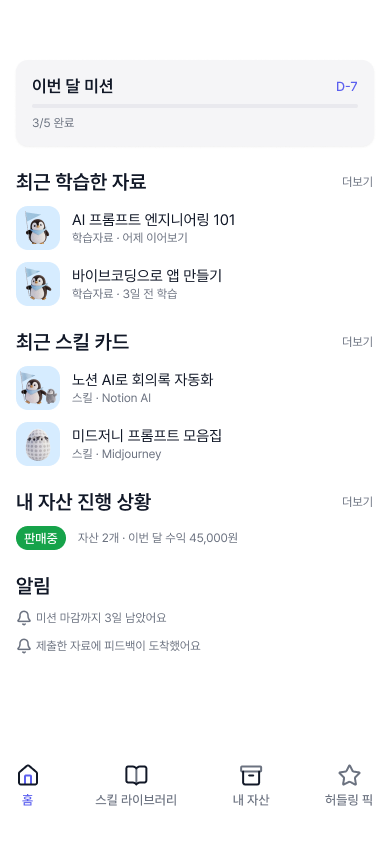
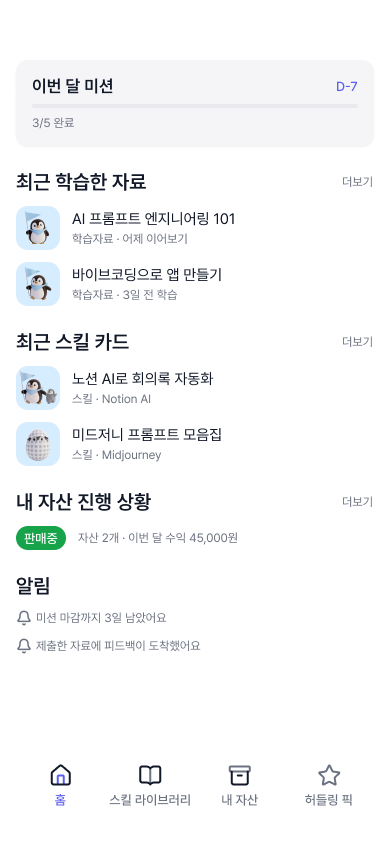
feat(design): 게이트 4 통과 — STAGE=fix Round 1·2 + audit PASS (15/15)
- design-rules v1.1: Tab Height fixed(size-button-sm) → fixed(size-tap-min). 탭 타겟 최소 44 규칙과의 충돌 해소
- Round 1: 홈·스킬 라이브러리·허들링 픽 primary 카드 인스턴스 이름 표기, ItemRow/SkillCard itemSpacing semantic 바인딩,
  TabBar TabItem FILL, Tab 높이 44
- Round 2: Tab minWidth=size-tap-min 바인딩, Underline FILL (탭 영역 16건 해소)
- snapshot-runner 재추출 3페이지 PASS, design-auditor audit 9/9 PASS, audit-report.md 작성
- fix-list.md (Round 1·2 이력), 스크린샷 5장 갱신, build-log 갱신

diff --git a/design/04-screens/build-log.md b/design/04-screens/build-log.md
@@ -4,7 +4,7 @@
 
 - figma_file: 9mSXSf3cI36nDWiyolGXja
 - figma_file_url: https://www.figma.com/design/9mSXSf3cI36nDWiyolGXja/
-- design_rules_version: 1.0
+- design_rules_version: 1.1
 - start_date: 2026-09-18
 - design_rules_confirmed_at: 2026-09-18
 
@@ -405,7 +405,170 @@ character-asset-2.png 는 01-home/05-huddling-pick 두 곳에서 재사용되어
   next: audit 대기 (세 페이지 스냅샷 PASS 후 design-auditor)
 
 ### snapshot · 03 Screens ❌
+
 - profile: full · 배치 17개 · 노드 355개 (프레임 5개: 01 Home 82 · 02 Skill Library 86 · 03 Mission Detail 48 · 04 My Assets 64 · 05 Huddling Pick 75)
 - check-snapshot: FAIL (25/26) — "화면당 isPrimary 1개" 위반: DeviceFrame · 01 Home(0개), DeviceFrame · 02 Skill Library(0개), DeviceFrame · 05 Huddling Pick(0개). 나머지 25개 항목 전부 PASS (schema_version/file_key/frames 5개/노드 355개/isTapTarget 52개/isInstance 83개/변수 2계층 검증 등)
 - check-layout (03 Screens): PASS — 고정 높이 0건 · 오토레이아웃 없는 컨테이너 0건 · 콘텐츠 넘침 0건
 - 재추출 불필요: 스냅샷 추출 자체는 완결(잘림 없음, 구멍/중복 없음). isPrimary FAIL 은 Figma 노드 이름/variant 속성에 "primary"가 없는 것이 원인 — figma-builder 가 해당 화면들의 주요 CTA 요소 이름 또는 컴포넌트 variant 를 수정해야 한다.
+
+## STAGE=fix · Round 1 ✅
+
+완료: 2026-09-19 (design-rules.md v1.1 반영 · design_rules_version 도 1.1 로 갱신)
+입력: design/04-screens/fix-list.md (Round 1 · 코디네이터 작성 · 대상 전부 `figma`)
+
+### Critical (03 Screens · isPrimary 보정)
+
+| #   | 화면             | 노드                        | 조치                                                                 |
+| --- | ---------------- | --------------------------- | -------------------------------------------------------------------- |
+| 1   | 01 Home          | `71:84` Card 인스턴스       | 이름 `Card` → `Card · primary`                                       |
+| 2   | 02 Skill Library | `74:117` SkillCard 인스턴스 | 이름 `SkillCard` → `SkillCard · primary` (74:127 · 74:137 은 그대로) |
+| 3   | 05 Huddling Pick | `79:264` PickCard 인스턴스  | 이름 `PickCard` → `PickCard · primary` (79:272 는 그대로)            |
+
+수정 전 각 화면을 스캔해 기존 "primary" 명명 충돌이 없음을 확인(0건)한 뒤 진행. 화면당 정확히 1개.
+
+### Major (02 Components 마스터 수정 → 03 Screens 인스턴스에 자동 전파)
+
+| #   | 노드                                                                  | 바인딩/속성                                                                | 값                                  |
+| --- | --------------------------------------------------------------------- | -------------------------------------------------------------------------- | ----------------------------------- |
+| 4   | ItemRow 마스터 `TextCol` (`36:122`)                                   | itemSpacing → semantic `space-inline` (primitive `space-1` 별칭, 4px)      | 2px → 4px                           |
+| 5   | SkillCard 마스터 `TagsRow` (`37:26`)                                  | itemSpacing → semantic `space-tap-gap-min` (primitive `space-2` 별칭, 8px) | 6px → 8px                           |
+| 6   | TabBar 마스터 `TabItem` ×4 (`37:49`·`37:51`·`37:53`·`37:55`)          | `layoutSizingHorizontal` → `FILL` (부모 TabBar 390px 균등분할)             | 폭 24~49px(HUG) → 89.5px 균등 4등분 |
+| 7   | Tab 컴포넌트 세트 `State=active`(`37:17`) · `State=inactive`(`37:20`) | `setBoundVariable("height", …)` → semantic `size-tap-min`(44px)            | 높이 36 → 44                        |
+
+**전체 페이지 스캔 결과:** `TextCol` 이름의 노드는 ItemRow 마스터의 `36:122` 1개뿐 — Card/AssetCard 등
+다른 마스터에 동일 이름·2px 사례 없음(추가 처리 불필요).
+
+**부수 수정 (lint 1차에서 발견, fix-list 밖 사이드이펙트 아님 — #7 의 직접 결과):**
+Tab 컴포넌트 세트 컨테이너(`37:23`, layoutMode NONE)의 바운딩 박스가 이전 높이(36)에 고정돼 있어
+variant 높이를 44로 올린 뒤 `content-overflow` 2건(active/inactive 각 8px 아래로 넘침) 발생 →
+`tabSet.resize(24, 44)`로 컨테이너 높이만 맞춤(오토레이아웃 아님, HUG 규칙과 무관).
+
+**주의:** fix-list #4/#5 원문의 "semantic `space-1`/`space-2`" 표기는 실제로는 primitive 이름이었다
+(semantic 컬렉션에 `space-1`/`space-2`라는 변수는 없음 — 이는 이전 STAGE=components 기록에 남겨진
+"components.md 표기를 시맨틱 이름으로 오인"과 같은 종류의 함정). 값(4px/8px) 기준으로 실제 semantic
+별칭인 `space-inline`(→space-1)·`space-tap-gap-min`(→space-2)을 찾아 바인딩했다. Figma 수정 전
+`figma.variables.getLocalVariablesAsync()`로 alias 대상을 직접 조회해 확인(가정 없음).
+
+### figma-lint 결과
+
+- `__PAGE_NAME__="02 Components"`, `__FIXED_ALLOW__="Button,ProgressBar,SearchBar,Tab,TabBar,AppBar,BottomCTA,LoadingSpinner,DeviceFrame,Icon"`
+  - 1차: 2건 (content-overflow: Tab State=active/inactive, #7의 side effect)
+  - Tab 세트 컨테이너 resize 후 2차: **0건, passed: true** (32 프레임 · 418 노드)
+- `__PAGE_NAME__="03 Screens"`, 동일 `__FIXED_ALLOW__`
+  - **0건, passed: true** (5 프레임 · 360 노드) — Critical 이름 변경은 lint 대상 밖(이름만 변경, 구조/바인딩 불변)이라 애초에 위반 없음
+
+### 스크린샷 갱신
+
+5장 전부 재추출 후 기존 파일명 그대로 덮어씀 (390×844 PNG, get_screenshot → curl 다운로드):
+`design/04-screens/screenshots/01-home.png` · `02-skill-library.png` · `03-mission-detail.png` ·
+`04-my-assets.png` · `05-huddling-pick.png`
+
+### 스냅샷
+
+snapshot: requested (page=02 Components · profile=full · stage=fix)
+snapshot: requested (page=03 Screens · profile=full · stage=fix)
+
+멈춰서 질문으로 남긴 것: 없음. fix-list 밖 항목은 건드리지 않음(예: `04-my-assets`의
+BottomCTA/TabBar 설계 판단, `ItemRow` `Thumb`→`Img/` 개명 보류 건 — 둘 다 이전 라운드에서 이미
+질문/보류로 기록됨, 이번 라운드 범위 아님).
+
+figma_read_calls: 약 14회 (whoami 1 · get_metadata 1(부분 실패, use_figma 로 재확인) · use_figma 8(조사 4 + 수정 2 + lint 2) · get_screenshot 5)
+next: snapshot-runner 가 02 Components · 03 Screens 두 페이지 모두 PASS 확인 후 design-auditor 재실행
+
+### snapshot · 02 Components (fix r1) ✅
+
+- profile: full · 배치 10개 (신규 6 + 기존 재사용 4 — 변경 없는 프레임은 이전 STAGE 배치를 그대로 씀) · 프레임 32/32 · 노드 338개
+- 신규 추출: 프레임 0(Button, 재확인용) · 1~4(Card/ItemRow/Badge) · 4~8(ProgressBar/SearchBar/Tab/SkillCard) · 8~13(AssetCard/PickCard/TabBar/AppBar/Modal)
+- 재사용(기존 STAGE=components 배치, fix-list 대상 아님): 13~19 · 19~24 · 24~28 · 28~32
+- check-snapshot --stage components: PASS (18/18)
+- check-layout --page "02 Components": PASS (고정 높이 0건 · 오토레이아웃 누락 0건 · 콘텐츠 넘침 0건, 노드 338개)
+- 수정 확인: Tab State=active/inactive height=44 vSizing=FIXED · TabItem ×4 layoutSizingHorizontal=FILL & isTapTarget=true · ItemRow/TextCol itemSpacing=4 · SkillCard/TagsRow itemSpacing=8
+- 재추출 필요 없음
+
+### snapshot · 03 Screens (fix r1) ✅
+
+- profile: full · 배치 12개 (프레임 5개 × 각 2~3개 노드 청크) · 프레임 5/5 · 노드 355개
+- 배치 상세: f00(01 Home) 3개(0-20·20-40·40-82) · f01(02 Skill Library) 3개(0-40·40-63·63-86) ·
+  f02(03 Mission Detail) 2개(0-40·40-48) · f03(04 My Assets) 2개(0-40·40-64) ·
+  f04(05 Huddling Pick) 2개(0-40·40-75)
+- 파일: design/04-screens/snapshot-batches/screens-fix1-f0N-b0N.json (이전 라운드 screens-f0N-b0N.json 은 재사용하지 않고 전부 새로 뽑음)
+- merge-snapshot.mjs: 5개 프레임 전부 노드 청크 재조합 성공, 구멍·중복 없음
+- check-snapshot --stage screens: PASS (26/26) — "화면당 isPrimary 1개: 모든 화면 1개" 항목 포함
+- check-layout --page "03 Screens": PASS (고정 높이 0건 · 오토레이아웃 누락 0건 · 콘텐츠 넘침 0건, 노드 355개)
+- isPrimary 개별 확인:
+  - 01 Home: `Card · primary` (71:84) — 1개
+  - 02 Skill Library: `SkillCard · primary` (74:117) — 1개
+  - 05 Huddling Pick: `PickCard · primary` (79:264) — 1개
+  - (참고: 03 Mission Detail 의 BottomCTA Button, 04 My Assets 의 Button 도 variant=primary 로 isPrimary=true 이나 이번 라운드 확인 대상 밖)
+- 재추출 필요 없음
+
+## STAGE=fix · Round 2 ✅
+
+완료: 2026-09-19
+입력: design/04-screens/fix-list.md `Fix List · Round 2` (항목 #8 · 대상 전부 `figma`)
+
+### 조사: 12px semantic 변수 존재 여부
+
+design-rules.md §B semantic 표(space-screen-padding/section/card-padding/list-gap/inline/tap-gap-min)를
+전수 확인한 결과 **"패딩" 의도로 12px(={space-3})를 가리키는 semantic 변수는 없다.**
+`space-list-gap` 이 {space-3}(12px) 를 참조하긴 하나 용도가 "리스트 아이템 간" 간격이라 Tab 좌우
+padding 에 의미적으로 맞지 않는다 — 값이 같다고 다른 의도의 변수를 끌어쓰지 않았다.
+따라서 fix-list #8 처리 규칙 1의 **대안 경로**(minWidth = size-tap-min + 텍스트 중앙 정렬)를 택했다.
+
+### 적용 내용 (Tab 컴포넌트 세트, `02 Components`)
+
+| 노드                        | 변경                                                                                                             |
+| --------------------------- | ---------------------------------------------------------------------------------------------------------------- |
+| `State=active` (37:17)      | `setBoundVariable("minWidth", size-tap-min)` (semantic, ={size-44}) · 라벨(37:18) `textAlignHorizontal = CENTER` |
+| `State=inactive` (37:20)    | 동일 (라벨 37:21)                                                                                                |
+| `Underline` (37:19 · 37:22) | `layoutSizingHorizontal = "FILL"` — minWidth 로 확보된 부모 폭을 따라 늘어남                                     |
+| 세트 컨테이너 `Tab` (37:23) | `resize(44, 44)` — 두 variant 모두 44×44 로 커진 것에 맞춤 (기존 24×44)                                          |
+
+primitive 직접 바인딩 없음. 화면 인스턴스(02 Skill Library / 04 My Assets / 05 Huddling Pick) 개별
+override 없음 — 마스터만 수정, 인스턴스는 자동 전파.
+
+**결과 크기:** 두 variant 모두 최소 44×44 (라벨 "전체" 기준 HUG 폭이 minWidth 44 보다 작아 44로 고정,
+더 긴 라벨은 44보다 커질 수 있음 — 여전히 size-tap-min 이상이므로 탭 영역 위반 없음).
+
+### figma-lint 결과
+
+- `__PAGE_NAME__="02 Components"`, `__FIXED_ALLOW__="Button,ProgressBar,SearchBar,Tab,TabBar,AppBar,BottomCTA,LoadingSpinner,DeviceFrame,Icon"` → **0건, passed: true** (32 프레임 · 418 노드)
+- `__PAGE_NAME__="03 Screens"`, 동일 `__FIXED_ALLOW__` → **0건, passed: true** (5 프레임 · 360 노드)
+
+### 스크린샷 갱신
+
+Tab 이 있는 3개 화면 재추출 후 기존 파일명 덮어씀:
+`design/04-screens/screenshots/02-skill-library.png` · `04-my-assets.png` · `05-huddling-pick.png`
+(01-home, 03-mission-detail 은 Tab 미사용 — 변경 없음, 재추출 안 함)
+
+### 스냅샷
+
+snapshot: requested (page=02 Components · profile=full · stage=fix)
+snapshot: requested (page=03 Screens · profile=full · stage=fix)
+
+멈춰서 질문으로 남긴 것: 없음.
+
+figma_read_calls: 약 9회 (whoami 1 · get_metadata 1 · use_figma 5(조사 2 + 수정 1 + lint 2) · get_screenshot 3)
+next: snapshot-runner 두 페이지 PASS 후 design-auditor
+
+### snapshot · 02 Components (fix r2) ✅
+
+- profile: full · 배치 12개 (신규 3 + fix1 재사용 2 + STAGE=components 재사용 5 — 프레임 4~7 만 재추출) · 프레임 32/32 · 노드 338개
+- 신규 추출: 프레임 4~6(ProgressBar/SearchBar) · 프레임 6~7(Tab, 변경 대상) · 프레임 7~8(SkillCard) — 기존 fix1 배치(f04-b01, 4~8 범위)는 Tab 변경으로 폐기, 겹치는 원본 STAGE=components 배치(f01/f04/f08-b01)도 함께 제거해 구멍·중복 없이 재구성
+- 재사용: 프레임 0(Button, 노드 3청크) · 프레임 1~4(Card/ItemRow/Badge, fix1) · 프레임 8~13(AssetCard/PickCard/TabBar/AppBar/Modal, fix1) · 프레임 13~32(Icon 세트 등, STAGE=components 원본)
+- merge-snapshot.mjs: 32/32 프레임, 구멍·중복 없음
+- check-snapshot --stage components: PASS (18/18 · 변수 primitives 38 / semantic 39 전부 alias)
+- check-layout --page "02 Components": PASS (고정 높이 0건 · 오토레이아웃 누락 0건 · 콘텐츠 넘침 0건, 노드 338개)
+- Tab 수정 확인 (스냅샷 값 기준): 컨테이너 `Tab`(37:23) 44×44 · `State=active`(37:17)/`State=inactive`(37:20) 둘 다 size 44×44, vSizing=FIXED(design-rules 고정 높이 선언 대상이라 정상) · `Underline`(37:19/37:22) layoutSizingHorizontal=FILL. minWidth 바인딩 자체는 스키마에 별도 필드가 없어 size=44(=size-tap-min)로 간접 확인.
+- 재추출 필요 없음
+
+### snapshot · 03 Screens (fix r2) ✅
+
+- profile: full · 배치 12개 (fix1 f00×3 + fix2 f01×3 + fix1 f02×2 + fix2 f03×2 + fix2 f04×2) · 노드 355개
+- 재추출 대상: 프레임 1 `02 Skill Library`(86 nodes) · 프레임 3 `04 My Assets`(64 nodes) · 프레임 4 `05 Huddling Pick`(75 nodes). 프레임 0 `01 Home`/2 `03 Mission Detail` 은 Round 1 배치 재사용, 겹치는 Round 1 f01/f03/f04 배치는 삭제
+- Tab 인스턴스 폭 확인 (마스터 minWidth 44 전파):
+  - 02 Skill Library: 8개, 폭 44/44/57/57/44/44/44/44 — 전부 ≥44
+  - 04 My Assets: 5개, 폭 44/44/45/57/44 — 전부 ≥44
+  - 05 Huddling Pick: 7개, 전부 44 — 전부 ≥44
+- check-snapshot --stage screens: PASS (26/26)
+- check-layout --page "03 Screens": PASS (고정 높이 0건 · 오토레이아웃 누락 0건 · 콘텐츠 넘침 0건)

diff --git a/design/04-screens/audit-report.md b/design/04-screens/audit-report.md
@@ -1,0 +1,105 @@
+# Audit Report
+
+**검사일:** 2026-09-19
+**Round:** 1 (공식 audit 기준 — STAGE=fix Round 1·2 는 이 audit 이전 사전 보정 라운드였음)
+**대상:** 5개 화면 (01-home, 02-skill-library, 03-mission-detail, 04-my-assets, 05-huddling-pick)
+
+---
+
+## 최종 판정: PASS ✅
+
+---
+
+## A단계 · 사전 검사 (입력이 쓸 만한가)
+
+| 스크립트           | 결과 | 비고                                                                                             |
+| ------------------ | ---- | ------------------------------------------------------------------------------------------------ |
+| check-snapshot.mjs | ✅   | 26/26 통과 · schema_version 4 · 03 Screens 5프레임/355노드, 잘림 없음, isPrimary 화면당 1개 포함 |
+| check-assets.mjs   | ✅   | 8/8 통과 · §I 표 10슬롯 전부 `design/assets/characters/` 파일 존재 확인                          |
+
+두 스크립트 모두 통과 — audit 입력을 신뢰할 수 있음.
+
+## B단계 · 구조 검증 (스크립트 · `figma-audit.mjs`)
+
+| 항목              | 결과 | 위반                                                 |
+| ----------------- | ---- | ---------------------------------------------------- |
+| 팔레트 일관성     | ✅   | 0건                                                  |
+| 타이포 재사용     | ✅   | 0건                                                  |
+| spacing 그리드    | ✅   | 0건                                                  |
+| 탭 영역           | ✅   | 0건                                                  |
+| 세이프 에어리어   | ✅   | 0건 (167개 콘텐츠 노드 검사)                         |
+| primary 개수      | ✅   | 0건 (화면당 정확히 1개)                              |
+| 컴포넌트 재사용률 | ✅   | 100% (기준 90%, 인스턴스 63 / 손제작 프레임 0)       |
+| 토큰 계층         | ✅   | 0건 (212개 바인딩 전부 semantic, primitive 직결 0건) |
+| 레이아웃 거동     | ✅   | 0건 (고정 높이·넘침 없음)                            |
+
+**요약:** 9/9 PASS, 총 위반 0건.
+**상세:** `design/04-screens/audit-structural.json`
+
+## C단계 · 시각적 검증 (LLM)
+
+### 01-home
+
+- 전체 균형: OK — "이번 달 미션" 카드 → 섹션(자료/스킬/자산/알림) 순으로 위계가 명확.
+- 이미지: OK — 4개 썸네일(펭귄 캐릭터 이미지) 전부 채워짐, 회색 빈 박스 없음, §I 표 파일과 일치, 톤 일관.
+- 규칙 준수: OK — 색상·타이포·아이콘 크기 통일. 하단 탭바 아이콘/라벨 정렬 균등.
+- 사용성: OK — primary(미션 카드)가 유일한 카드형 컴포넌트로 시각적으로 구분됨. 잘림·어색한 빈 공간 없음.
+
+### 02-skill-library
+
+- 전체 균형: OK — 검색바 → 카테고리 탭 → 난이도 탭 → 카드 리스트 순 위계 명확.
+- 이미지: 해당 없음 (§I 표에 슬롯 없음, 확인됨).
+- 규칙 준수: OK — 3개 SkillCard 스타일 일관, 무료/유료·난이도 Badge 색상 규칙대로.
+- 사용성: ⚠ 개선 여지 — 구조상 첫 카드가 `isPrimary`(primary count 검사 대상)로 지정돼 있으나, 시각적으로 나머지 두 카드와 완전히 동일한 스타일이라 육안으로는 "이게 primary"라는 구분이 없음. 다만 design-rules 의 SkillCard 정의에 primary 강조 스타일이 없어 규칙 위반은 아님 — 화면 구조 확인용 플래그와 시각적 강조가 별개 개념으로 쓰인 것으로 판단.
+- 탭 영역(size-tap-min 44 반영): 시각적으로 탭이 과도하게 두꺼워 보이지 않음, 어색함 없음.
+
+### 03-mission-detail
+
+- 전체 균형: OK — AppBar(뒤로가기+제목) → 본문 → 관련 스킬 → 제출 상태 → 피드백 → BottomCTA 순서 자연스러움.
+- 이미지: 해당 없음 (§I 표에 슬롯 없음). ItemRow 썸네일은 의도대로 중립색(color-surface-2) 채움 — 빈 이미지 슬롯 아님, 정상.
+- 규칙 준수: OK — Badge(피드백 대기, warning) 색상 정확, BottomCTA 보라색 풀폭으로 규칙대로.
+- 사용성: OK — primary 액션(제출하기)이 화면 하단에 고정되어 매우 눈에 띔. 콘텐츠 잘림 없음.
+
+### 04-my-assets
+
+- 전체 균형: OK — 상태 필터 탭 → 등록 버튼 → 자산 카드 → 수익 요약 순.
+- 이미지: OK — AssetCard 2개(펭귄 캐릭터 사진) 채워짐, 회색 박스 없음, 상태 Badge(판매중/멤버공개) 대비 양호.
+- 규칙 준수: OK — 색상·radius·타이포 일관.
+- 사용성: ⚠ 개선 여지 — "판매 수익 요약" 섹션 아래로 탭바까지 빈 공간이 상당히 넓어 보임(콘텐츠가 3개뿐이라 발생). 결함은 아니나 콘텐츠가 늘어나기 전까지는 다소 허전한 인상. build-log 에 이미 기록된 BottomCTA 대신 인라인 Button 배치 결정과 별개의 관찰.
+
+### 05-huddling-pick
+
+- 전체 균형: OK — 검색바 → 카테고리 탭 → 정렬 탭 → 픽 카드 순.
+- 이미지: OK — PickCard 2개 세로형(펭귄 캐릭터 사진) + ItemRow 1개 전부 채워짐, 텍스트(가격·제목)는 이미지 밖에 배치되어 대비 문제 없음, 잘림 없음.
+- 규칙 준수: OK — 가격(label bold), 카테고리 Pill, 제작자 caption 스타일 규칙대로.
+- 사용성: ⚠ 개선 여지 — 04-my-assets 와 동일하게 리스트 아래 빈 공간이 넓어 보임(콘텐츠 3개 기준). 반복되는 패턴이라 다음 라운드에서 카드 개수를 늘리거나 EmptyState/추가 섹션으로 채우는 것을 고려할 만함.
+
+---
+
+## 진단
+
+**원인 분류:**
+
+- [x] PASS — 결함 없음 (진단 분류 대상 아님)
+- [ ] 국소 결함
+- [ ] 방향 오류
+- [ ] 반복 실패
+
+**주요 발견:**
+
+- 구조 검증 9/9, 사전 검사 2/2 모두 통과. 시각 검증에서 발견한 것은 전부 ⚠ 개선 여지 수준(빈 공간, primary 카드의 시각적 무강조)이며 design-rules 위반은 아니다.
+- STAGE=fix Round 1·2 에서 처리한 isPrimary 명명, Tab 탭 영역(44px), spacing semantic 바인딩 수정이 이번 audit 에서 전부 유효하게 반영된 것을 스냅샷·스크린샷 양쪽에서 확인.
+
+## 알려진 보류 사항 (결함 아님, 후속 라운드 후보)
+
+1. **ItemRow 마스터 썸네일 레이어명** — `02 Components` 의 ItemRow 마스터 썸네일이 `Thumb` 으로 명명되어 있고 `Img/` 접두사가 아님. 03-mission-detail 은 §I 표에 이미지 슬롯이 없어 이 화면에서는 문제되지 않음(node_id 기반 주입이라 동작 자체는 정상). 다음 컴포넌트 보완 라운드에서 `Img/item-thumb` 로 개명 권장.
+2. **04-my-assets 하단 구성** — BottomCTA 대신 인라인 Button + TabBar 로 사용자 확정. 규칙 위반 아님, 재확인 완료.
+3. **보조 상태 프레임 미생성** — loading/empty/submitting/error 등은 시간 예산상 생성하지 않음(5개 화면 모두 default 만). screens.md 요구사항이지만 이번 게이트 4 시연 범위에서 fail 사유로 처리하지 않음 — 필요 시 별도 라운드로 진행.
+4. (신규 관찰) **04/05 화면 하단 여백** — 콘텐츠 수가 적어 탭바 위 빈 공간이 넓음. 결함은 아니지만 콘텐츠 확장 또는 섹션 추가 시 개선 여지.
+5. (신규 관찰) **02-skill-library primary 카드 시각적 무강조** — 구조적으로는 정확히 1개 primary 이나, SkillCard 컴포넌트 정의 자체에 강조 variant가 없어 육안 구분 불가. design-rules 위반은 아님(규칙에 강조 요구 없음).
+
+## 다음 조치
+
+PASS 이므로:
+→ 🎉 게이트 4 통과. 위 5개 보류/관찰 사항은 결함이 아니라 다음 라운드(있다면) 참고용으로만 남김.
+→ fix-list.md 는 이번 라운드에서 신규 항목을 추가하지 않음(기존 Round 1·2 이력은 그대로 보존).

diff --git a/design/04-screens/fix-list.md b/design/04-screens/fix-list.md
@@ -1,0 +1,61 @@
+# Fix List · Round 1
+
+- 작성: 코디네이터 (2026-09-19)
+- 근거: snapshot-runner 의 `check-snapshot` FAIL (화면당 isPrimary 1개) + 코디네이터가 현재 스냅샷으로 사전 실행한
+  `npm run audit` 결과 (spacing 11건 · 탭 영역 33건). design-auditor 는 세 페이지 스냅샷 PASS 후 실행한다.
+- design-rules.md 는 **v1.1** (2026-09-19 · Tab Height → fixed(size-tap-min)). build-log 의 design_rules_version 도 1.1 로 갱신할 것.
+- 재사용률 항목은 계산식 수정으로 100% PASS — Figma 수정 불필요.
+
+**대상 열:** `figma` = STAGE=fix 로 Figma 수정 / `rules` = design-rules §I 표 교체 (design-rules-generator). 이번 라운드는 전부 `figma`.
+
+**주의:** figma-builder STAGE=fix 는 이 목록에 있는 것만 고친다. 페이지 `02 Components` 마스터를 고치면 `03 Screens` 인스턴스에 전파된다 — 화면 인스턴스에서 개별 override 로 고치지 않는다.
+
+## Critical (check-snapshot FAIL · 게이트 4 진입 조건)
+
+| #   | 화면             | 대상  | 노드                                  | 문제                                                                       | 수정 방법                                                                              |
+| --- | ---------------- | ----- | ------------------------------------- | -------------------------------------------------------------------------- | -------------------------------------------------------------------------------------- |
+| 1   | 01 Home          | figma | `Card` 인스턴스 (id 71:84, main=Card) | primary 액션(이번 달 미션 카드 탭)인데 이름에 primary 없음 → isPrimary 0개 | 레이어 이름을 `Card · primary` 로 변경 (이 화면에서 이 노드 하나만)                    |
+| 2   | 02 Skill Library | figma | `SkillCard` 인스턴스 (id 74:117)      | primary 액션(스킬 카드 탭) 미표기 → isPrimary 0개                          | 첫 카드만 `SkillCard · primary` 로 변경. 74:127 · 74:137 은 그대로 (화면당 정확히 1개) |
+| 3   | 05 Huddling Pick | figma | `PickCard` 인스턴스 (id 79:264)       | primary 액션(픽 카드 탭) 미표기 → isPrimary 0개                            | 첫 카드만 `PickCard · primary` 로 변경. 79:272 은 그대로                               |
+
+## Major (audit FAIL 예정 · 02 Components 마스터 수정)
+
+| #   | 화면                      | 대상  | 노드                                                                  | 문제                                             | 수정 방법                                                                                                                                          |
+| --- | ------------------------- | ----- | --------------------------------------------------------------------- | ------------------------------------------------ | -------------------------------------------------------------------------------------------------------------------------------------------------- |
+| 4   | 02 Components → ItemRow   | figma | `TextCol` (id 36:122, ItemRow 마스터 안)                              | itemSpacing 2px (4배수 아님) · 화면 8건 전파     | itemSpacing 을 semantic `space-1`(4px) 변수로 바인딩. 같은 이름의 TextCol 이 다른 마스터(Card/AssetCard 등)에도 2px 이면 동일 처리                 |
+| 5   | 02 Components → SkillCard | figma | `TagsRow` (id 37:26, SkillCard 마스터 안)                             | itemSpacing 6px (4배수 아님) · 화면 3건 전파     | itemSpacing 을 semantic `space-2`(8px) 변수로 바인딩                                                                                               |
+| 6   | 02 Components → TabBar    | figma | `TabItem` ×4 (id 37:49 · 37:51 · 37:53 · 37:55)                       | 폭 24~49px (HUG) → 탭 영역 44 미만 8건 전파      | 각 TabItem 의 `layoutSizingHorizontal = "FILL"` (4개가 390 을 균등 분할 → 약 97px). 세로는 HUG 44 유지. 아이콘·라벨 중앙 정렬 유지                 |
+| 7   | 02 Components → Tab       | figma | `State=active` (37:17) · `State=inactive` (37:20) — Tab 컴포넌트 세트 | 높이 36 → 탭 영역 44 미만 21건 + TabRow 4건 전파 | 높이를 `size-tap-min`(44) 변수로 바인딩 (design-rules v1.1 `Height: fixed(size-tap-min)`). Underline 은 하단 유지. 화면의 TabRow 는 HUG 라 자동 44 |
+
+## Minor
+
+없음. (ItemRow 마스터 `Thumb` → `Img/item-thumb` 개명은 **보류**: 03 Mission Detail 의 ItemRow 2개는 §I 표에 슬롯이 없어
+이미지가 없으므로, 개명하면 게이트 4 "이미지 슬롯 채움" 이 빈 슬롯 2개로 FAIL 한다. §I 에 03 화면 슬롯을 추가할 때 함께 처리.)
+
+## 처리 규칙 (figma-builder에게)
+
+1. 수정 후 `scripts/figma-lint.js` 를 `02 Components` · `03 Screens` 두 페이지에 돌려 0건 확인
+2. build-log 에 `snapshot: requested (page=02 Components · profile=full · stage=fix)` 와
+   `snapshot: requested (page=03 Screens · profile=full · stage=fix)` 두 줄을 남긴다 (직접 뽑지 않는다)
+3. 화면 스크린샷 5장 갱신 (design/04-screens/screenshots/)
+
+---
+
+# Fix List · Round 2
+
+- 작성: 코디네이터 (2026-09-19). Round 1 후 세 페이지 스냅샷 PASS · `npm run audit` 8/9 (탭 영역 16건만 남음).
+- 남은 위반은 전부 `Tab` 인스턴스 (02 Skill Library 6 · 04 My Assets 3 · 05 Huddling Pick 7): 높이 44 는 맞았으나
+  폭이 라벨 텍스트에 붙는 HUG 라 24~38px. `대상` 열 전부 `figma`.
+
+## Major
+
+| #   | 화면                | 대상  | 노드                                                                  | 문제                                  | 수정 방법                                                                                                                                                                                                                                                                                            |
+| --- | ------------------- | ----- | --------------------------------------------------------------------- | ------------------------------------- | ---------------------------------------------------------------------------------------------------------------------------------------------------------------------------------------------------------------------------------------------------------------------------------------------------- |
+| 8   | 02 Components → Tab | figma | `State=active` (37:17) · `State=inactive` (37:20) — Tab 컴포넌트 세트 | 폭 HUG → 화면 인스턴스 24~38px (16건) | 두 variant 에 좌우 padding 을 semantic 12px(primitive space-3 별칭 · 실제 semantic 이름은 Figma 변수에서 조회) 로 바인딩 → 최소 폭 24+24=48 ≥ 44. `Underline` (37:19 · 37:22) 은 `layoutSizingHorizontal = "FILL"` 로 바꿔 라벨+패딩 폭을 따르게. 세트 컨테이너(37:23) 폭도 늘어난 variant 에 맞춘다 |
+
+## 처리 규칙 (figma-builder에게)
+
+1. 12px semantic 변수가 없으면 8px(space-2 별칭) 로 대체하되 라벨 최소 폭이 24 이므로 24+16=40 < 44 가 된다 — 그 경우 대신 두 variant 에 `minWidth` 를 `size-tap-min`(44) 로 바인딩하고 텍스트를 가로 중앙 정렬한다. 어느 쪽을 택했는지 build-log 에 적는다
+2. 수정 후 `scripts/figma-lint.js` 를 `02 Components` · `03 Screens` 에 돌려 0건 확인
+3. build-log 에 `## STAGE=fix · Round 2` 섹션과 `snapshot: requested (page=02 Components · profile=full · stage=fix)` · `snapshot: requested (page=03 Screens · profile=full · stage=fix)` 두 줄
+4. 화면 스크린샷 02 · 04 · 05 갱신 (Tab 이 있는 화면)

diff --git a/design/03-design-rules/design-rules.md b/design/03-design-rules/design-rules.md
@@ -1,8 +1,8 @@
 ---
 status: confirmed
-version: 1.0
+version: 1.1
 created_at: 2026-09-18
-confirmed_at: 2026-09-18
+confirmed_at: 2026-09-19
 based_on:
   - scripts/default-tokens.md (default)
   - PRD.md (§9 브랜드 방향)
@@ -323,7 +323,8 @@ image-library: design/assets/characters
 
 ### Tab (언더라인 필터 탭)
 
-- Height: fixed(size-button-sm)
+- Height: fixed(size-tap-min)
+  (v1.1 · 2026-09-19: size-button-sm(36) 에서 변경. Tab 은 탭 타겟이므로 §G `Tap target: 최소 size-tap-min` 과 충돌하던 것을 해소. 사용자 확정)
 - States: active(color-text + 하단 언더라인 color-primary) / inactive(color-text-muted)
 - 용도: 스킬 라이브러리 카테고리·난이도 필터, 내 자산 상태 필터, 허들링 픽 카테고리·정렬
 
